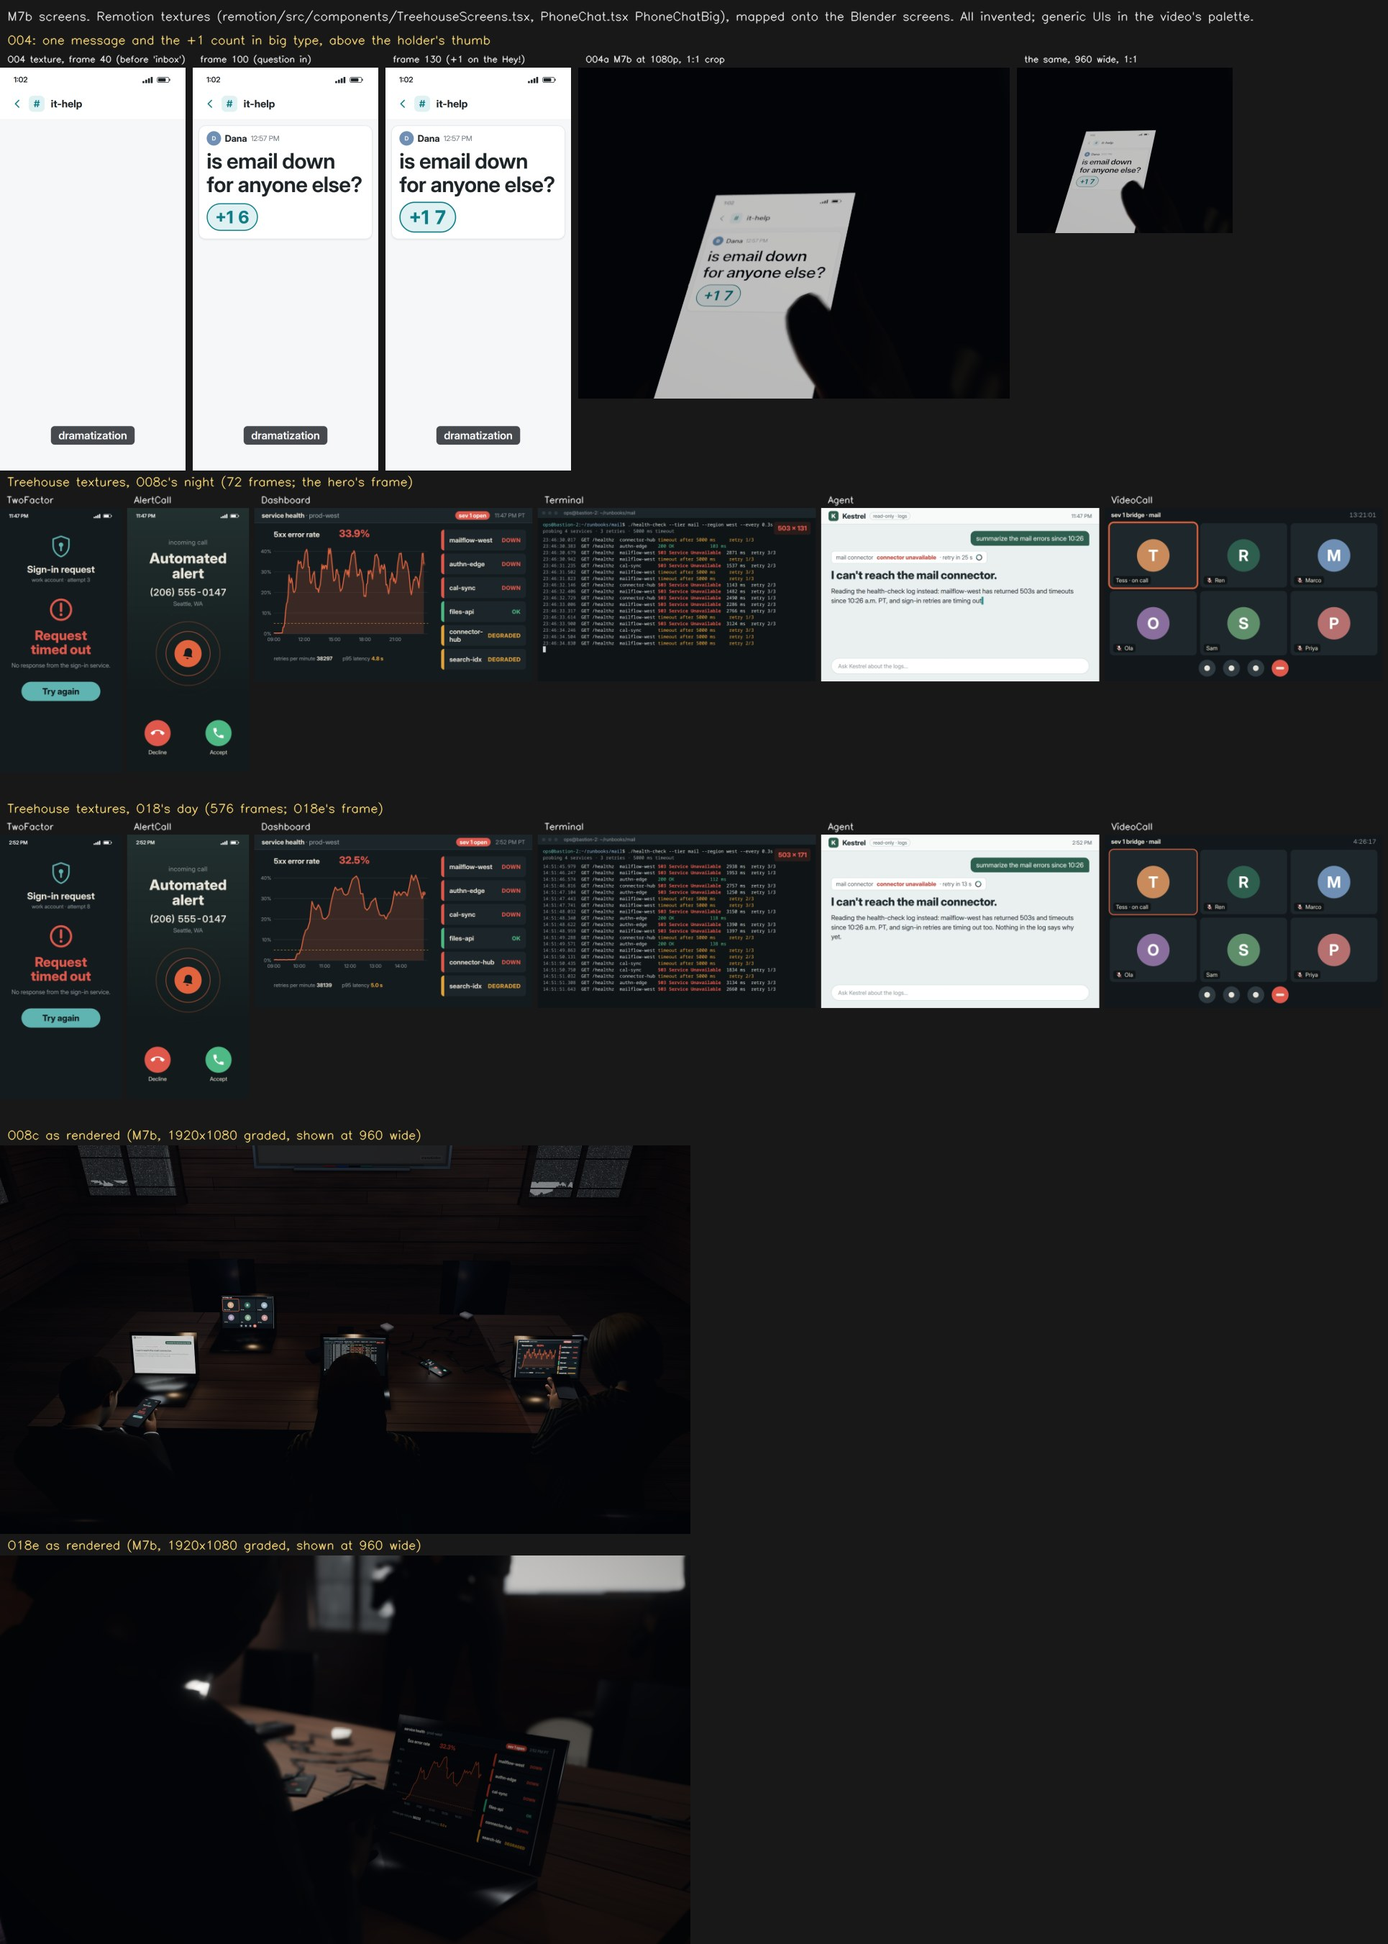
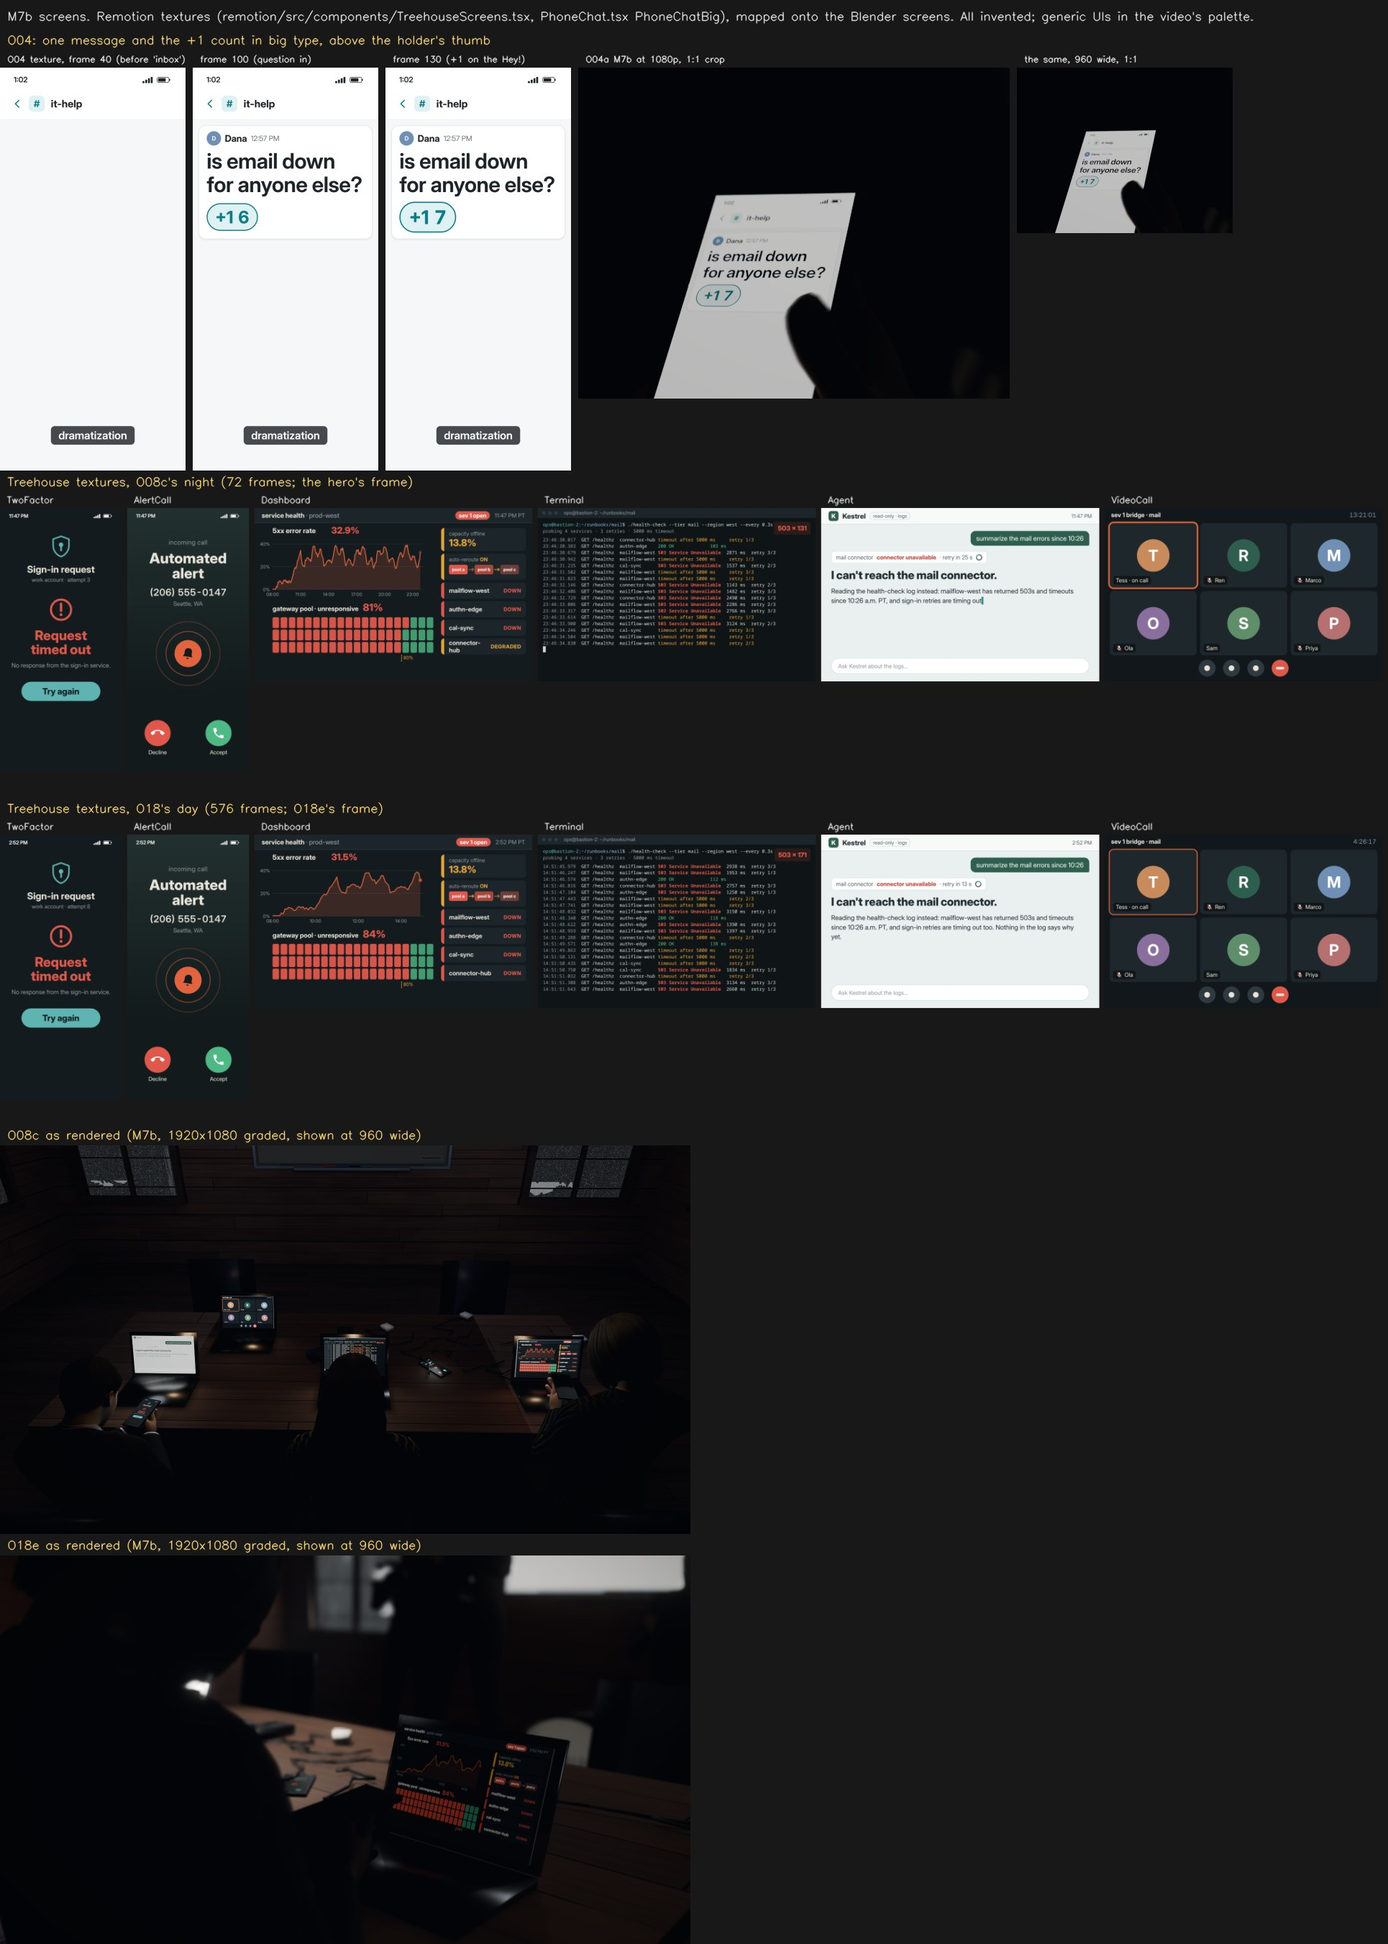
M7b: the treehouse dashboard after brief rev 136 (gateway pool unresponsive past 80%, ~14% capacity offline, auto-reroute; invented labels, no July fix or report text on any screen); O08c and O18e re-rendered; decisions 33, production log 39
Claude-Session: https://claude.ai/code/session_01U1tVYmFWxb2Mdmh2QA4KgB

diff --git a/remotion/src/components/TreehouseScreens.tsx b/remotion/src/components/TreehouseScreens.tsx
@@ -5,8 +5,10 @@
 // video call".
 // Guardrails (decisions 30): generic UIs in the video's own palette (theme.ts), no real product's name, logo, colours
 // or layout; invented names; the caller ID is in the 555-0100..0199 fiction range; nothing ties AI-written code to the
-// outage (the code screen is a health check, the agent only reads logs and is blocked); no cause beyond the brief's
-// sources; times follow the brief (Thu Nov 12, the wider outage from 10:26 a.m. PT).
+// outage (the code screen is a health check, the agent only reads logs and is blocked); no screen mentions the July
+// fix, who or what wrote it, or the load tests (the whiteboard's and the brief's tags'); nothing from the report is
+// reproduced; times follow the brief (rev 136: Exchange problems from 8:20 a.m. PT Thu Nov 12, the wider outage from
+// 10:26 a.m. PT).
 // Every screen takes `night` (O08c: late Thursday night; O18: Thursday afternoon) and `phase` (frames: where its loop
 // starts, so each build's shots land on a readable beat).
 import React from 'react';
@@ -145,31 +147,44 @@ export const AlertCall: React.FC<ScreenProps> = ({night, phase = 0}) => {
   );
 };
 
-/* ---------- 3. a laptop: an invented service-health dashboard, the 5xx rate spiking, tiles going red ---------- */
+/* ---------- 3. a laptop: an invented service-health dashboard ---------- */
+// It echoes the sourced story (brief rev 136, fact card: The Register on Microsoft's preliminary report) with invented
+// labels and nothing quoted: the error rate rising from 8:20 a.m. PT (11:20 a.m. ET) and climbing from 10:26 a.m. PT
+// (1:26 p.m. ET); a gateway pool whose unresponsive share climbs past 80%; about 14% of capacity offline; automatic
+// rerouting between pools. No cause, no fix, no change history on screen.
 const TILES: [string, 'down' | 'degraded' | 'ok', number][] = [
   // [service, final state, frame it turns (from phase 0), before that: degraded]
-  ['mailflow-west', 'down', -1], ['authn-edge', 'down', 40], ['cal-sync', 'down', 150],
-  ['files-api', 'ok', -1], ['connector-hub', 'down', 300], ['search-idx', 'degraded', -1],
+  ['mailflow-west', 'down', -1], ['authn-edge', 'down', 40], ['cal-sync', 'down', 150], ['connector-hub', 'down', 300],
 ];
 export const Dashboard: React.FC<ScreenProps> = ({night, phase = 0}) => {
   const f = useCurrentFrame() + phase;
   const r = rng(503);
-  // the 5xx rate from 09:00 to now, one point per 5 minutes: ~0.3% before 09:50, a climb to 10:26, then high with noise
-  const endMin = night ? (23 - 9) * 60 + 47 : (14 - 9) * 60 + 52;
+  // the 5xx rate from 08:00 PT to now, one point per 5 minutes: a first rise from 08:20, the climb from 10:26
+  const startMin = 8 * 60;
+  const nowMin = night ? 23 * 60 + 47 : 14 * 60 + 52;
+  const span = nowMin - startMin;
   const pts: [number, number][] = [];
-  for (let m = 0; m <= endMin; m += 5) {
-    const climb = interpolate(m, [50, 86, 92], [0.3, 18, 36], clamp);
-    const tail = m > 92 ? 30 + 7 * Math.sin(m / 23) + 4 * Math.sin(m / 7.3) : climb;
-    pts.push([m, Math.max(0.2, tail + (r() - 0.5) * (m > 50 ? 5 : 0.3))]);
+  for (let m = 0; m <= span; m += 5) {
+    const tm = startMin + m;
+    let v = interpolate(tm, [500, 520, 600, 626, 660], [0.3, 6, 8, 18, 34], clamp);
+    if (tm > 660) v = 29 + 6 * Math.sin(tm / 23) + 4 * Math.sin(tm / 7.3);
+    pts.push([m, Math.max(0.2, v + (r() - 0.5) * (tm > 500 ? 4 : 0.3))]);
   }
-  const live = 31 + 4 * Math.sin(f / 9) + 2.5 * Math.sin(f / 3.7);
-  pts.push([endMin + 2, live]);
-  const W = 780, H = 470, X0 = 70, Y0 = 70;
-  const xs = (m: number) => X0 + (m / (endMin + 2)) * (W - X0 - 20);
-  const ys = (v: number) => Y0 + H - 50 - (v / 40) * (H - 90);
+  const live = 30 + 4 * Math.sin(f / 9) + 2.5 * Math.sin(f / 3.7);
+  pts.push([span + 2, live]);
+  const X0 = 64, W = 760, Y0 = 50, H = 280;
+  const xs = (m: number) => X0 + (m / (span + 2)) * (W - X0 - 16);
+  const ys = (v: number) => Y0 + H - 36 - (v / 40) * (H - 70);
   const path = pts.map(([m, v], i) => `${i ? 'L' : 'M'}${xs(m).toFixed(1)} ${ys(v).toFixed(1)}`).join(' ');
   const ticks = [];
-  for (let h = 9; h * 60 - 540 <= endMin; h += night ? 3 : 1) ticks.push(h);
+  for (let h = 8; h * 60 <= nowMin; h += night ? 3 : 2) ticks.push(h);
+  // the gateway pool: 60 servers in 20 columns, going unresponsive from the left, the share climbing past 80% within
+  // each build's own frames (O08c: 78 -> 85%; O18: 60 -> 86%, past 80% before O18e)
+  const cf = useCurrentFrame();
+  const share = night ? 0.78 + 0.07 * (cf / 72) : 0.6 + 0.26 * (cf / 576);
+  const nDown = Math.round(share * 60);
+  const downSet = new Set(Array.from({length: 60}, (_, i) => i).filter((i) => (i % 20) * 3 + Math.floor(i / 20) < nDown));
+  const reroute = (f % 45) / 45;
   return (
     <div style={{position: 'absolute', inset: 0, background: D.bg, fontFamily: UI, color: D.text}}>
       <div style={{height: 70, display: 'flex', alignItems: 'center', justifyContent: 'space-between', padding: '0 34px', background: D.panel,
@@ -180,39 +195,69 @@ export const Dashboard: React.FC<ScreenProps> = ({night, phase = 0}) => {
           <span style={{color: D.muted}}>{clockAt(night, f / 30)} PT</span>
         </div>
       </div>
-      <svg width={820} height={560} style={{position: 'absolute', left: 20, top: 90}}>
-        <text x={X0} y={44} fill={D.text} fontSize={34} fontWeight={700} fontFamily={UI}>5xx error rate</text>
-        <text x={X0 + 300} y={44} fill={D.red} fontSize={46} fontWeight={800} fontFamily={UI}>{live.toFixed(1)}%</text>
-        {[0, 10, 20, 30, 40].map((v) => (
+      {/* the 5xx rate */}
+      <svg width={820} height={330} style={{position: 'absolute', left: 20, top: 82}}>
+        <text x={X0} y={34} fill={D.text} fontSize={32} fontWeight={700} fontFamily={UI}>5xx error rate</text>
+        <text x={X0 + 270} y={36} fill={D.red} fontSize={42} fontWeight={800} fontFamily={UI}>{live.toFixed(1)}%</text>
+        {[0, 20, 40].map((v) => (
           <g key={v}><line x1={X0} x2={W} y1={ys(v)} y2={ys(v)} stroke={D.line} strokeWidth={1.5} />
-            <text x={X0 - 12} y={ys(v) + 8} fill={D.muted} fontSize={22} textAnchor="end" fontFamily={UI}>{v}%</text></g>
+            <text x={X0 - 12} y={ys(v) + 8} fill={D.muted} fontSize={21} textAnchor="end" fontFamily={UI}>{v}%</text></g>
         ))}
-        <line x1={X0} x2={W} y1={ys(5)} y2={ys(5)} stroke={D.amber} strokeWidth={2} strokeDasharray="8 8" />
-        <path d={`${path} L${xs(endMin + 2)} ${ys(0)} L${xs(0)} ${ys(0)} Z`} fill={D.coral} opacity={0.18} />
-        <path d={path} fill="none" stroke={D.coral} strokeWidth={4.5} strokeLinejoin="round" />
-        <circle cx={xs(endMin + 2)} cy={ys(live)} r={9} fill={D.coral} opacity={0.6 + 0.4 * Math.sin(f / 4)} />
+        <path d={`${path} L${xs(span + 2)} ${ys(0)} L${xs(0)} ${ys(0)} Z`} fill={D.coral} opacity={0.18} />
+        <path d={path} fill="none" stroke={D.coral} strokeWidth={4} strokeLinejoin="round" />
+        <circle cx={xs(span + 2)} cy={ys(live)} r={8} fill={D.coral} opacity={0.6 + 0.4 * Math.sin(f / 4)} />
         {ticks.map((h) => (
-          <text key={h} x={xs(h * 60 - 540)} y={ys(0) + 34} fill={D.muted} fontSize={22} textAnchor="middle" fontFamily={UI}>
+          <text key={h} x={xs(h * 60 - startMin)} y={ys(0) + 30} fill={D.muted} fontSize={21} textAnchor="middle" fontFamily={UI}>
             {String(h).padStart(2, '0')}:00</text>
         ))}
       </svg>
-      <div style={{position: 'absolute', left: 860, top: 100, width: 390, display: 'grid', gridTemplateColumns: '1fr', gap: 14}}>
+      {/* the gateway pool */}
+      <div style={{position: 'absolute', left: 84, top: 430, width: 740}}>
+        <div style={{display: 'flex', alignItems: 'baseline', gap: 20}}>
+          <span style={{fontSize: 30, fontWeight: 700}}>gateway pool · unresponsive</span>
+          <span style={{fontSize: 46, fontWeight: 800, color: share >= 0.8 ? D.red : D.amber}}>{Math.round(share * 100)}%</span>
+        </div>
+        <div style={{display: 'grid', gridTemplateColumns: 'repeat(20, 1fr)', gap: 7, marginTop: 18}}>
+          {Array.from({length: 60}, (_, i) => (
+            <div key={i} style={{height: 50, borderRadius: 6, background: downSet.has(i) ? D.red : D.green, opacity: downSet.has(i) ? 0.95 : 0.8}} />
+          ))}
+        </div>
+        <div style={{position: 'relative', height: 30, marginTop: 10}}>
+          <div style={{position: 'absolute', left: '80%', top: 0, bottom: 0, borderLeft: `3px dashed ${D.amber}`}} />
+          <span style={{position: 'absolute', left: 'calc(80% + 10px)', top: 0, fontSize: 21, color: D.amber}}>80%</span>
+        </div>
+      </div>
+      {/* right column: capacity, rerouting, services */}
+      <div style={{position: 'absolute', left: 860, top: 92, width: 390, display: 'flex', flexDirection: 'column', gap: 12}}>
+        <div style={{borderRadius: 14, background: D.panel, borderLeft: `14px solid ${D.amber}`, padding: '12px 22px'}}>
+          <div style={{fontSize: 24, color: D.muted}}>capacity offline</div>
+          <div style={{fontSize: 44, fontWeight: 800, color: D.amber}}>13.8%</div>
+        </div>
+        <div style={{borderRadius: 14, background: D.panel, borderLeft: `14px solid ${D.amber}`, padding: '12px 22px'}}>
+          <div style={{fontSize: 24, color: D.muted}}>auto-reroute <span style={{color: D.amber, fontWeight: 700}}>ON</span></div>
+          <svg width={330} height={64} viewBox="0 0 330 64">
+            {['pool a', 'pool b', 'pool c'].map((nm, i) => (
+              <g key={nm}>
+                <rect x={i * 118} y={10} width={86} height={44} rx={8} fill={i === 0 ? D.red : i === 1 ? '#a8463c' : '#6e3c36'} />
+                <text x={i * 118 + 43} y={39} fill="#fff" fontSize={20} fontWeight={700} textAnchor="middle" fontFamily={UI}>{nm}</text>
+                {i < 2 && <path d={`M${i * 118 + 90} 32 L${i * 118 + 114} 32 M${i * 118 + 106} 25 L${i * 118 + 114} 32 L${i * 118 + 106} 39`}
+                  stroke={D.amber} strokeWidth={3.5} fill="none" opacity={0.4 + 0.6 * ((reroute + i * 0.5) % 1)} />}
+              </g>
+            ))}
+          </svg>
+        </div>
         {TILES.map(([name, fin, at]) => {
           const st = at < 0 || f >= at ? fin : 'degraded';
           const c = st === 'down' ? D.red : st === 'degraded' ? D.amber : D.green;
           const flash = at >= 0 && f >= at && f < at + 12 ? 1 : 0;
           return (
-            <div key={name} style={{height: 96, borderRadius: 14, background: flash ? '#3a2422' : D.panel, borderLeft: `14px solid ${c}`,
-              display: 'flex', alignItems: 'center', justifyContent: 'space-between', padding: '0 24px'}}>
-              <span style={{fontSize: 30, fontWeight: 650}}>{name}</span>
-              <span style={{fontSize: 26, fontWeight: 750, color: c, textTransform: 'uppercase', letterSpacing: 1}}>{st}</span>
+            <div key={name} style={{height: 74, borderRadius: 14, background: flash ? '#3a2422' : D.panel, borderLeft: `14px solid ${c}`,
+              display: 'flex', alignItems: 'center', justifyContent: 'space-between', padding: '0 22px'}}>
+              <span style={{fontSize: 28, fontWeight: 650}}>{name}</span>
+              <span style={{fontSize: 24, fontWeight: 750, color: c, textTransform: 'uppercase', letterSpacing: 1}}>{st}</span>
             </div>
           );
         })}
-      </div>
-      <div style={{position: 'absolute', left: 90, top: 680, fontSize: 24, color: D.muted}}>
-        retries per minute <span style={{color: D.text, fontWeight: 700}}>{Math.round(41000 + 3000 * Math.sin(f / 11))}</span>
-        <span style={{marginLeft: 46}}>p95 latency <span style={{color: D.amber, fontWeight: 700}}>{(4.6 + 0.4 * Math.sin(f / 7)).toFixed(1)} s</span></span>
       </div>
     </div>
   );

diff --git a/log/production_log.md b/log/production_log.md
@@ -724,3 +724,11 @@ Append-only. One entry per generation, render or analysis step.
   - **Guardrails:** no real product's name, logo, colours or layout on any screen; invented names; the caller ID 555-0147; nothing about AI-written code (the assistant only reads logs and is blocked; the terminal is a health check); no water, boats or tower. O04's screen and O08c's whiteboard carry "dramatization"; O18's caption is added at assembly, as before. Station sign, shafts and silhouettes as M7a.
   - **Drops at 1:1** (O03b against M7a): as many beads, as crisp, sizes more varied; runners with their trails.
   - **Other phones and screens:** the live room's crowd phones (six, in the wides) stay blank glowing screens, too small for text; the host's console monitors stay blank; O08's IT-reply insert is the full-frame Remotion phone (fine at 1080p). Unreadable text that is on screen: the treehouse terminal and phones in O08c, the ringing phone's caller ID in O18e (decisions 30).
+
+## 39. 2026-11-16 — M7b: the treehouse dashboard after brief rev 136
+
+- **Why:** brief rev 136 (human interventions 20, commit 20f6ea7) builds on Microsoft's preliminary report; the coordinator's note for Part C: the dashboard may echo the sourced story with invented labels; no screen mentions the July fix, who or what wrote it, or the load tests; nothing from the report reproduced; no config diff any more (decisions 33).
+- **Changed:** `remotion/src/components/TreehouseScreens.tsx` `Dashboard`: the 5xx chart from 08:00 PT with a first rise from 8:20 a.m. PT and the climb from 10:26; a "gateway pool · unresponsive" grid of 60 servers going red from the left past a dashed 80% line (O08c 78 → 85%, O18 60 → 86% over each build); "capacity offline 13.8%"; "auto-reroute ON" with pool a → pool b → pool c; four services DOWN. The other five screens already kept off the July fix, the load tests and any change history (checked: the terminal is a health check, the assistant reads logs and is blocked).
+- **Commands:** the two dashboard sequences archived (`archive/assets/gen/tex/m7b_v1/`) and re-rendered: `scripts/m7b_remotion.sh M7-Tree-Dashboard-night M7-Tree-Dashboard-day` (22 s; `log/render_logs/m7b_remotion_r2.log`). O08c and O18e re-rendered (`… --out renders/m7b/raw --still --subs O08c,O18e --size 1920x1080 --log log/render_logs/m7b_pose_check_r4.log`, 36 s; `m7b_heroes_r4.log`; the previous pair in `archive/renders/m7b/raw_v3/`), then `.venv/bin/python -I scripts/m7b_board.py --grade --board --screens`.
+- **Seen at 1080p:** O18e (dashboard in focus) "5xx error rate 31.3%", "gateway pool · unresponsive 84%", "capacity offline 13.8%", "auto-reroute ON", the four DOWN tiles read; O08c: the rate and "gateway pool · unresponsive 82%" read, the grid reads as mostly red.
+- Not touched (waiting for the new master): the O02/O23 stamp, O18's whiteboard and its two tags, the fact card.

diff --git a/log/decisions.md b/log/decisions.md
@@ -240,3 +240,12 @@ Append-only. Deviations from the brief, each with why and who decided.
 - The brief's rendering plan says the rooms are "rendered, not generated, so they stay consistent across all four sets and nothing in them can drift toward a real studio, a face or water". Human interventions 19 makes one exception: the park's far plate (the distant city and the far tree lines in layered fog, one plate behind the Blender set) is generated, and O22d is the same plate animated with image-to-video. Everything people touch stays rendered (the ground, the crest, the near firs, the lamp post with Switch, the umbrella); every other shot stays rendered.
 - The plate has no people, faces, text, logos, water, boats or landmark towers; takes with any are rejected (as M4). It stays behind fog, so a tower that half-resolves into a recognisable shape is rejected too.
 - This pass only makes concept stills and plate candidates for the human to pick a direction from (production log 41); the park is not rebuilt yet.
+
+## 33. 2026-11-16 — M7b: the treehouse screens after brief rev 136 (agent; supersedes parts of 30)
+
+- Brief rev 136 (human interventions 20) builds on Microsoft's preliminary report. For the screens (coordinator's note):
+  - **No config diff:** decisions 30's "the config diff is reserved for O18 on report day" no longer applies; branch A now circles the July fix on the whiteboard. The terminal is still a health check: no diff, no commit, no change history on any screen.
+  - **The dashboard echoes the sourced story with invented labels** (`TreehouseScreens.tsx` `Dashboard`): the 5xx rate from 08:00 PT, a first rise from 8:20 a.m. PT (Exchange problems from 11:20 a.m. ET) and the climb from 10:26 a.m. PT (1:26 p.m. ET), high through the night; "gateway pool · unresponsive", 60 servers going red from the left past a dashed 80% line (O08c 78 → 85%, O18 60 → 86%); "capacity offline 13.8%" (nearly 14%); "auto-reroute ON", pool a → pool b → pool c; mailflow-west, authn-edge, cal-sync and connector-hub DOWN. Numbers only: no words from the report, no internal names, no cause.
+  - **Kept out of every screen:** the July fix, who or what wrote it, the load tests (the whiteboard's and the tags'). The assistant reads logs and is blocked; the terminal probes endpoints; neither hints that an AI wrote or caused anything.
+  - **O08c** stays Thursday 11:47 p.m., after the wider outage and once "Teams came over for the night"; the alert call and the timing-out sign-ins fit it. The bridge (O18) stays Thursday 2:52 p.m.
+- Not changed here (waiting for the new master): the O02/O23 stamp, O18's whiteboard text and its two tags, the fact card.
